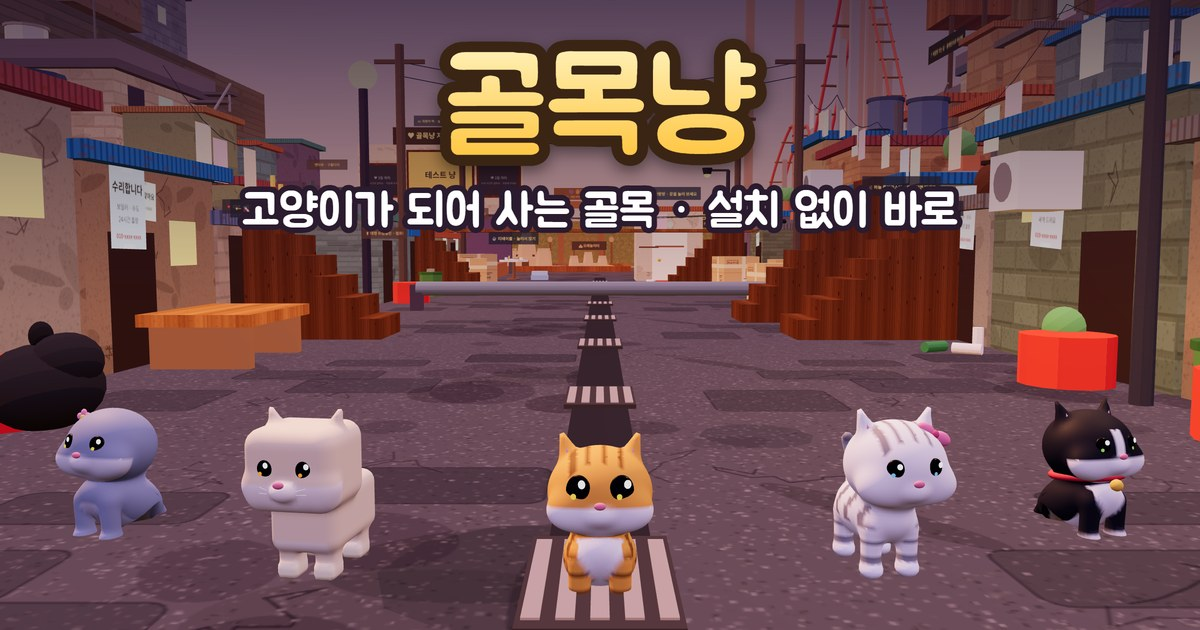
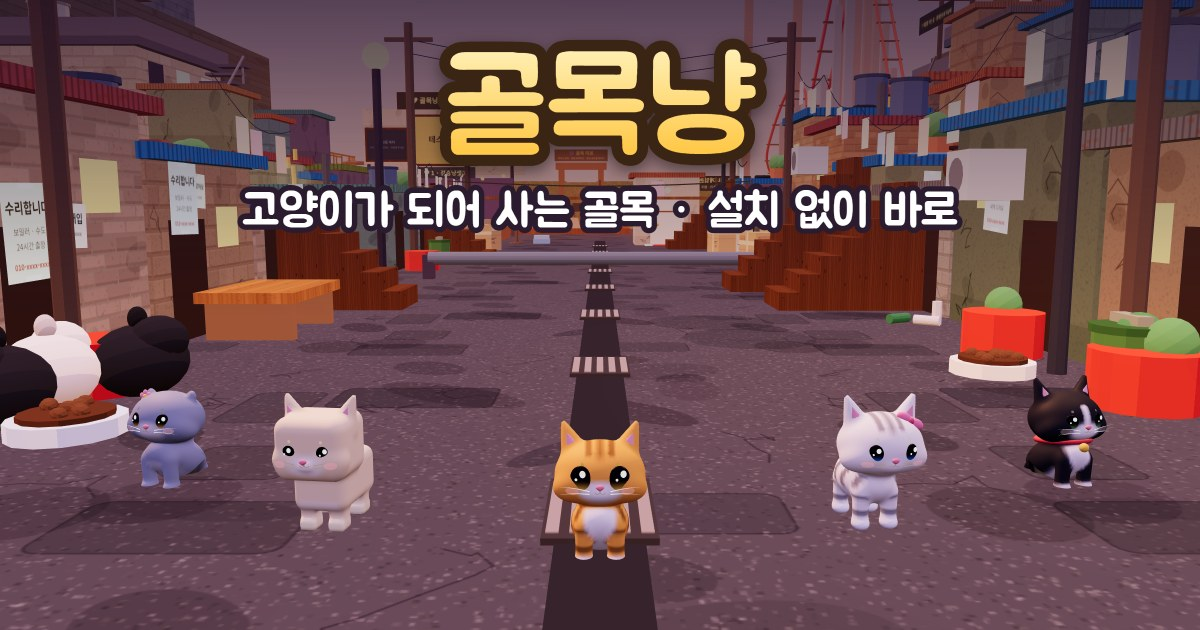
썸네일을 새 얼굴 고양이로 교체

diff --git a/index.html b/index.html
@@ -12,12 +12,12 @@
 <meta property="og:url" content="https://golmok-cat.github.io/">
 <meta property="og:title" content="골목냥 · 고양이가 되어 사는 골목">
 <meta property="og:description" content="친구들과 지붕 위에서 식빵 굽고, 가로등 아래 산책하는 고양이 메타버스. 설치 없이 폰으로 바로.">
-<meta property="og:image" content="https://golmok-cat.github.io/og.jpg?v=2">
+<meta property="og:image" content="https://golmok-cat.github.io/og.jpg?v=3">
 <meta property="og:image:width" content="1200">
 <meta property="og:image:height" content="630">
 <meta property="og:image:alt" content="골목에 모인 귀여운 고양이 다섯 마리와 골목냥 제목">
 <meta name="twitter:card" content="summary_large_image">
-<meta name="twitter:image" content="https://golmok-cat.github.io/og.jpg?v=2">
+<meta name="twitter:image" content="https://golmok-cat.github.io/og.jpg?v=3">
 <style>body{margin:0;min-height:100vh;display:grid;place-items:center;background:#221d2e;color:#fff2dd;font:16px system-ui,sans-serif;text-align:center}a{color:#ffd27a}</style>
 <script>location.replace('https://golmok-cat.golmok.workers.dev/?src=share'+(location.search?'&'+location.search.slice(1):''))</script>
 </head>
